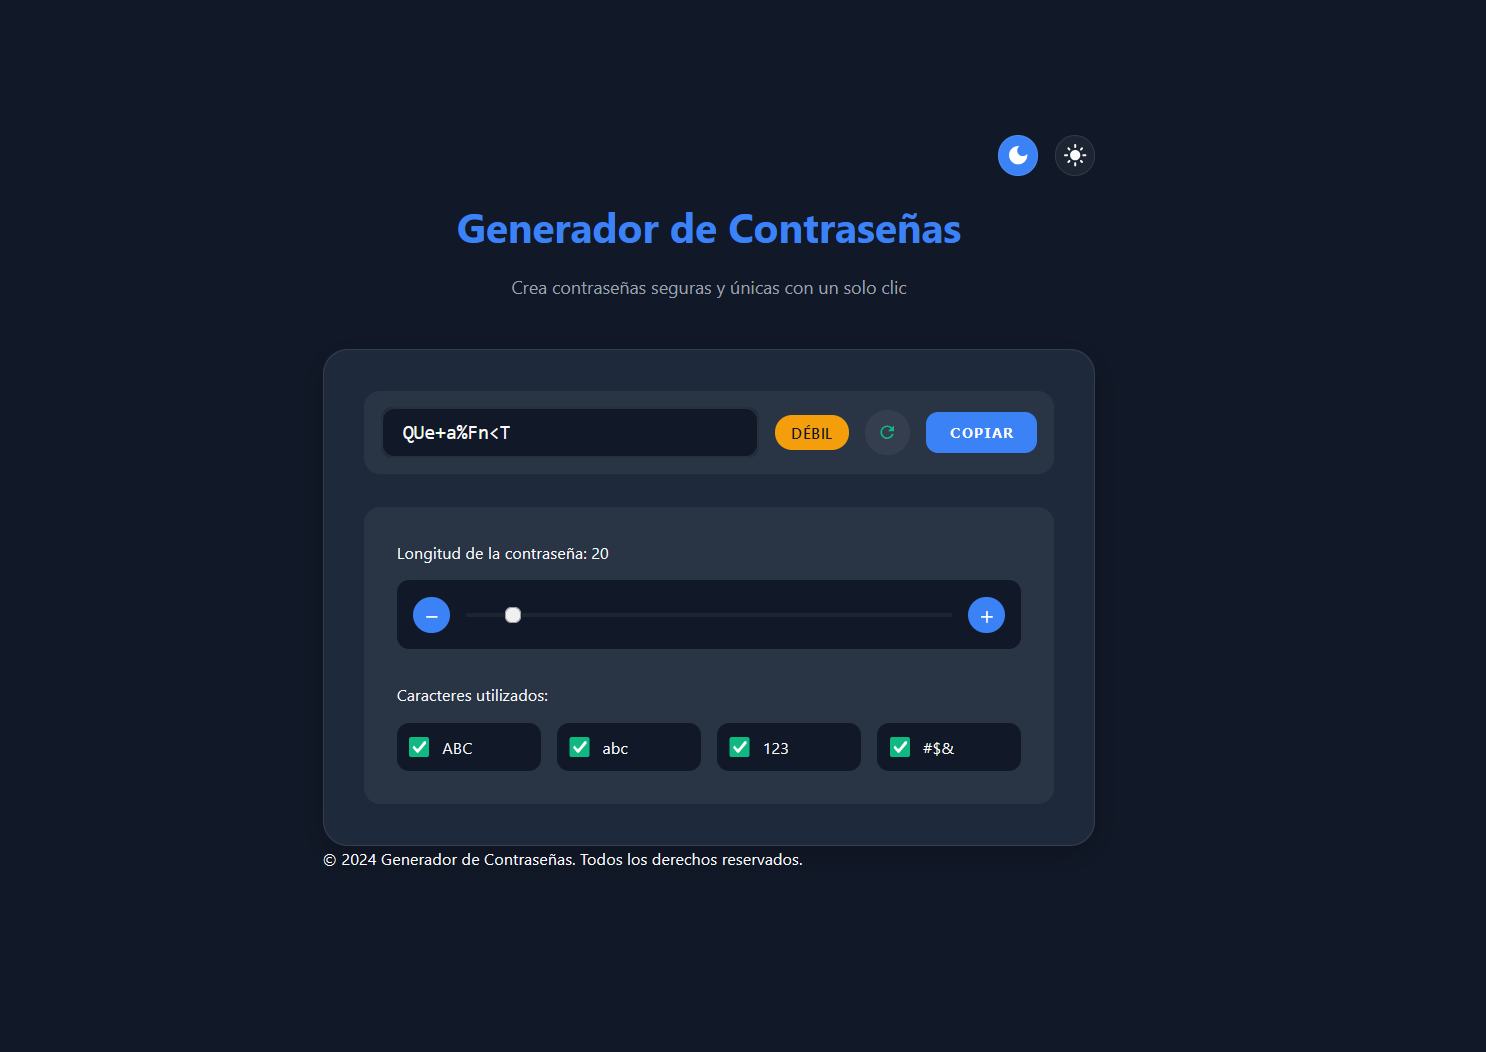
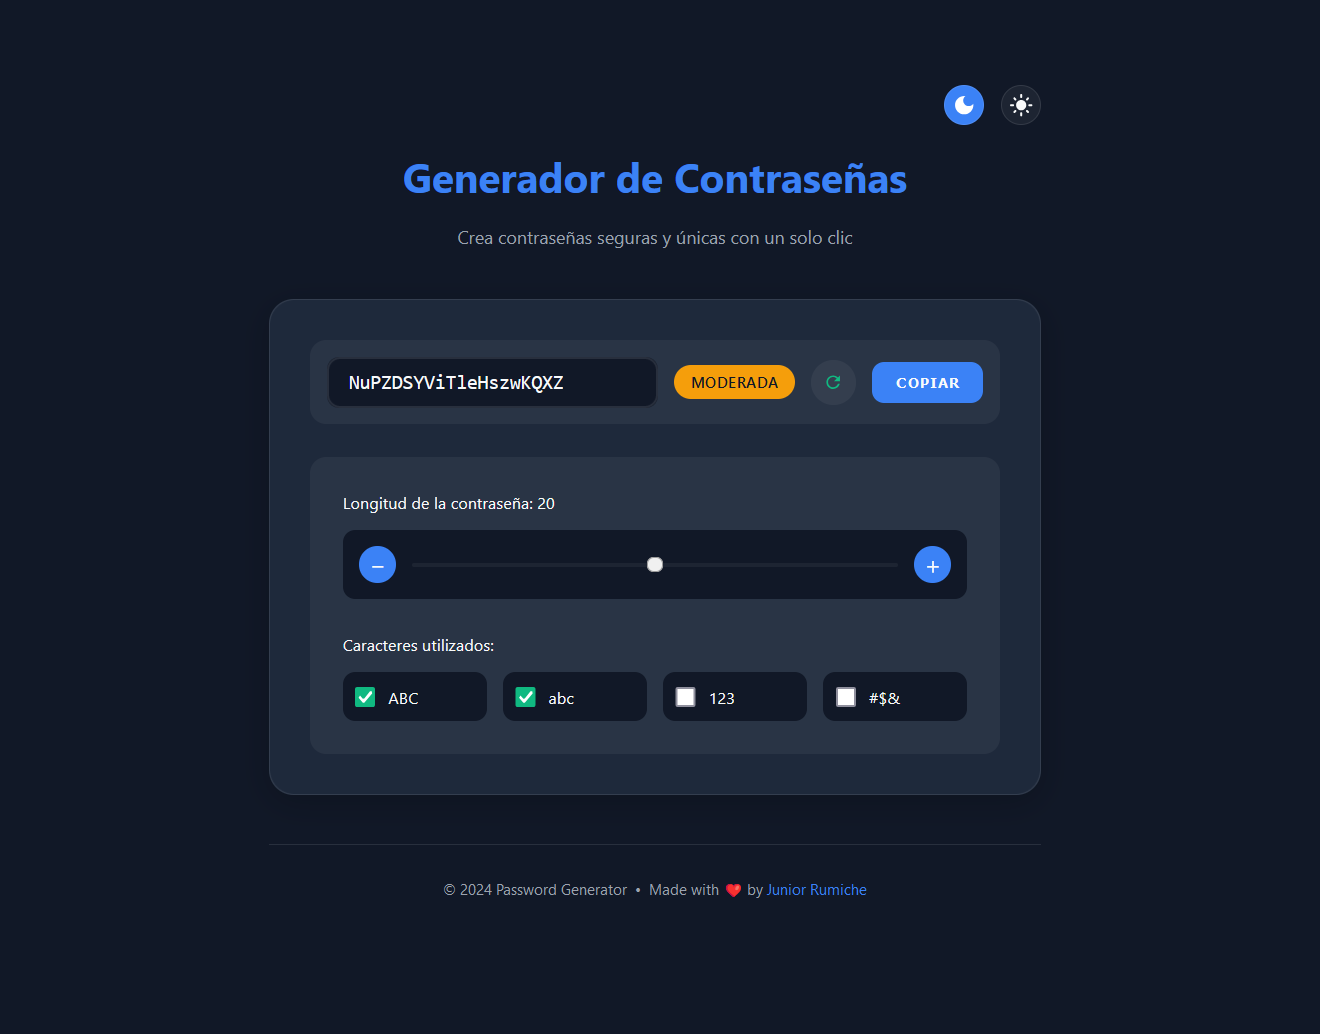
Update footer content and enhance styling
- Modified footer in `index.html` to include creator attribution and a love icon.
- Updated `style.css` to add new styles for the footer and footer text, including hover effects for links and icons.
- Replaced the existing preview image with an updated version in `assets/preview.png`.

diff --git a/css/style.css b/css/style.css
@@ -353,3 +353,37 @@ input[type="checkbox"] {
 [data-theme="light"] .checkbox {
     border: 1px solid var(--border-alpha);
 }
+
+footer {
+    margin-top: 3rem;
+    padding: 2rem 0;
+    text-align: center;
+    border-top: 1px solid var(--border-alpha);
+}
+
+.footer-text {
+    color: var(--text-secondary);
+    font-size: 0.9rem;
+    line-height: 1.5;
+}
+
+.footer-text a {
+    color: var(--primary-color);
+    text-decoration: none;
+    transition: color 0.3s ease;
+}
+
+.footer-text a:hover {
+    color: var(--accent-color);
+}
+
+.footer-text span[role="img"] {
+    color: var(--error-color);
+    display: inline-block;
+    transform: scale(1);
+    transition: transform 0.3s ease;
+}
+
+.footer-text span[role="img"]:hover {
+    transform: scale(1.2);
+}

diff --git a/index.html b/index.html
@@ -139,7 +139,11 @@
         </main>
 
         <footer>
-            <p class="footer-text">© 2024 Generador de Contraseñas. Todos los derechos reservados.</p>
+            <p class="footer-text">
+                © 2024 Password Generator &nbsp;•&nbsp; Made with
+                <span aria-label="love" role="img">❤</span> by
+                <a href="https://github.com/junior-rumiche" target="_blank" rel="noopener noreferrer">Junior Rumiche</a>
+            </p>
         </footer>
     </div>
     <script src="js/script.js"></script>
